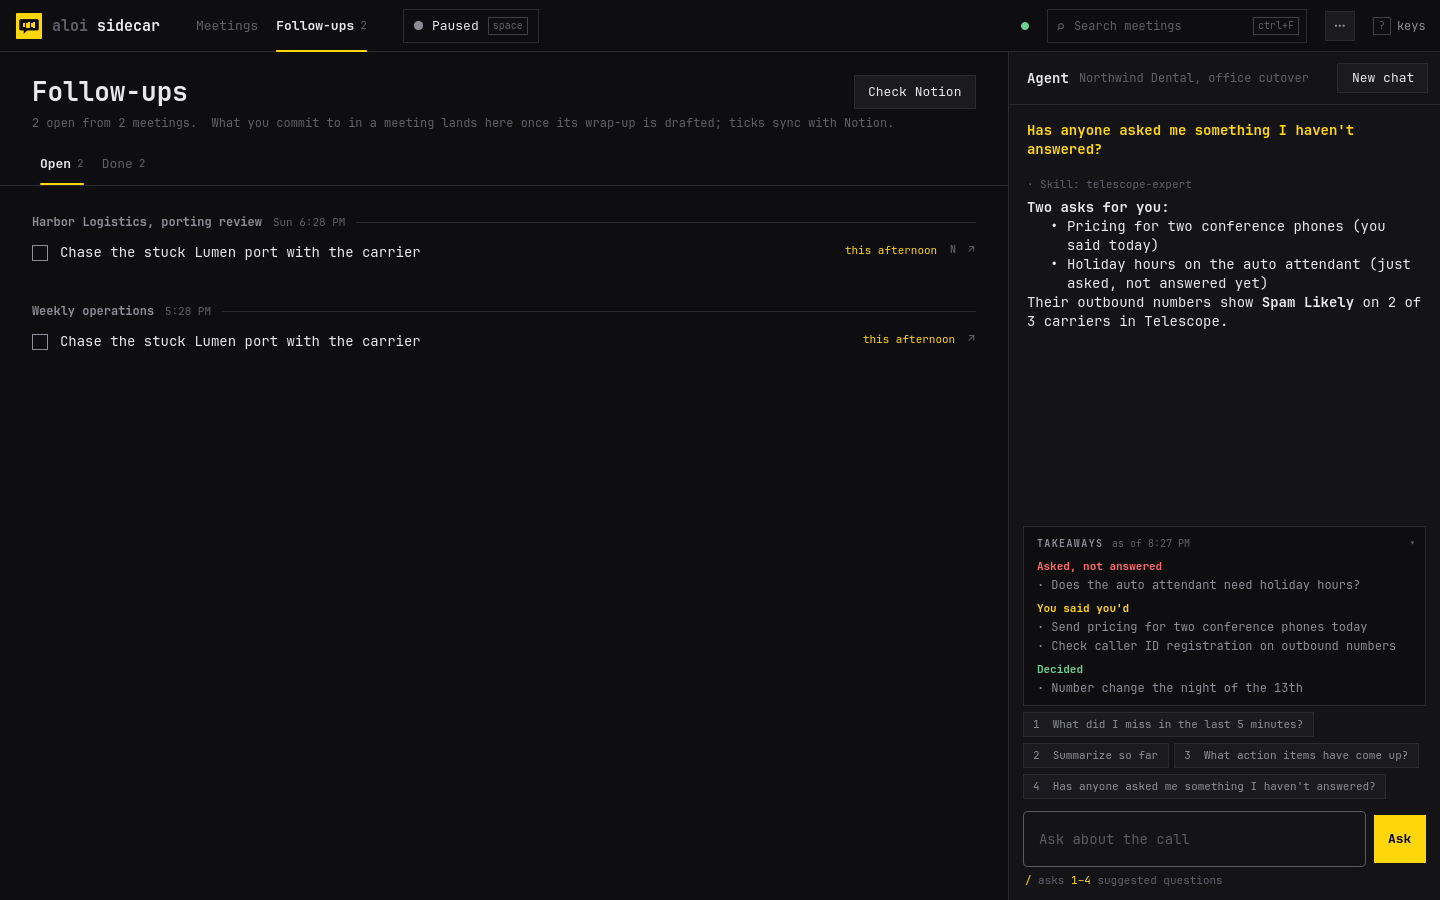
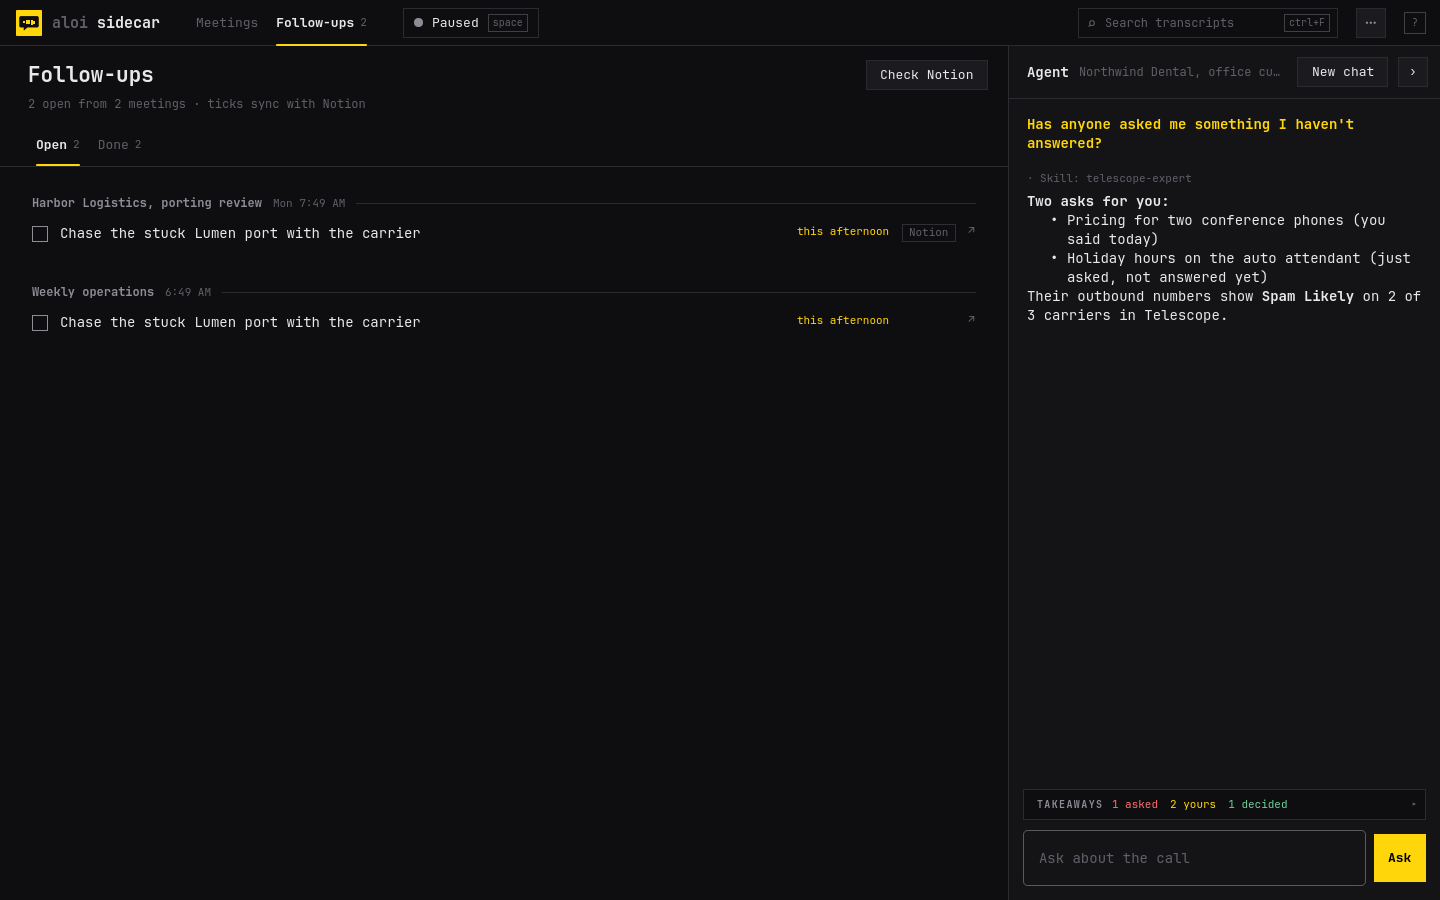
Rows say who a meeting was with; keys in two columns sooner; fresh screenshots
Claude-Session: https://claude.ai/code/session_01EHuQaH796s8G1eTeet5LQ1

diff --git a/src/MeetingList.qml b/src/MeetingList.qml
@@ -163,7 +163,12 @@ Rectangle {
                                 const g = Sidecar.group(row.m, pane.now)
                                 const day = g === "week" || g === "earlier" || (pane.place(row.m) === "wrap" && g !== "today")
                                             ? Sidecar.dayLabel(row.m) + "  ·  " : ""
-                                return day + Sidecar.span(row.m) + "  ·  " + qsTr("%n lines", "", row.m.lines || 0)
+                                // Who it was with says more than how many lines it ran to.
+                                const people = row.m.people || []
+                                const with_ = people.length === 1 ? qsTr("with %1").arg(people[0])
+                                            : people.length > 1 ? qsTr("with %1 +%2").arg(people[0]).arg(people.length - 1)
+                                            : qsTr("%n lines", "", row.m.lines || 0)
+                                return day + Sidecar.span(row.m) + "  ·  " + with_
                             }
                             color: ui.faint
                             font.pixelSize: 11

diff --git a/src/TopBar.qml b/src/TopBar.qml
@@ -150,7 +150,7 @@ Rectangle {
                     Label {
                         anchors.verticalCenter: parent.verticalCenter
                         visible: field.text === ""
-                        text: qsTr("Search what was said")
+                        text: qsTr("Search transcripts")
                         color: ui.faint
                         font.pixelSize: 12
                     }

diff --git a/src/KeysOverlay.qml b/src/KeysOverlay.qml
@@ -50,7 +50,7 @@ Popup {
     ]
 
     readonly property real inner: Math.min(win.width - 96, 920)
-    readonly property bool twoColumns: win.width > 1000
+    readonly property bool twoColumns: inner >= 760
     width: inner + leftPadding + rightPadding
     height: Math.min(win.height - 60, implicitHeight)
     padding: 26

diff --git a/tests/fake/engine.py b/tests/fake/engine.py
@@ -60,12 +60,13 @@ wrapups = {
 }
 notion = {"past-1": {"id": "abc", "url": "https://www.notion.so/abc", "state": "sent", "sent": NOW - 24 * 3600}}
 skipped = set()
+PEOPLE = {current_id: ["Amy Reed", "Sam Ortiz"], "past-0": ["Dana Park"], "past-1": ["Luis Ortega", "Kim Hale", "Dana Park"]}
 
 
 def meta(mid, title, started, ended, st, lines, event=None):
     w = wrapups.get(mid)
     return {"id": mid, "title": title, "started": started, "ended": ended, "state": st, "event": event,
-            "people": [], "notion": notion.get(mid), "lines": lines, "skipped": mid in skipped,
+            "people": PEOPLE.get(mid, []), "notion": notion.get(mid), "lines": lines, "skipped": mid in skipped,
             "wrapup": w["state"] if w else None, "edited": bool(w and w.get("edited"))}
 
 
